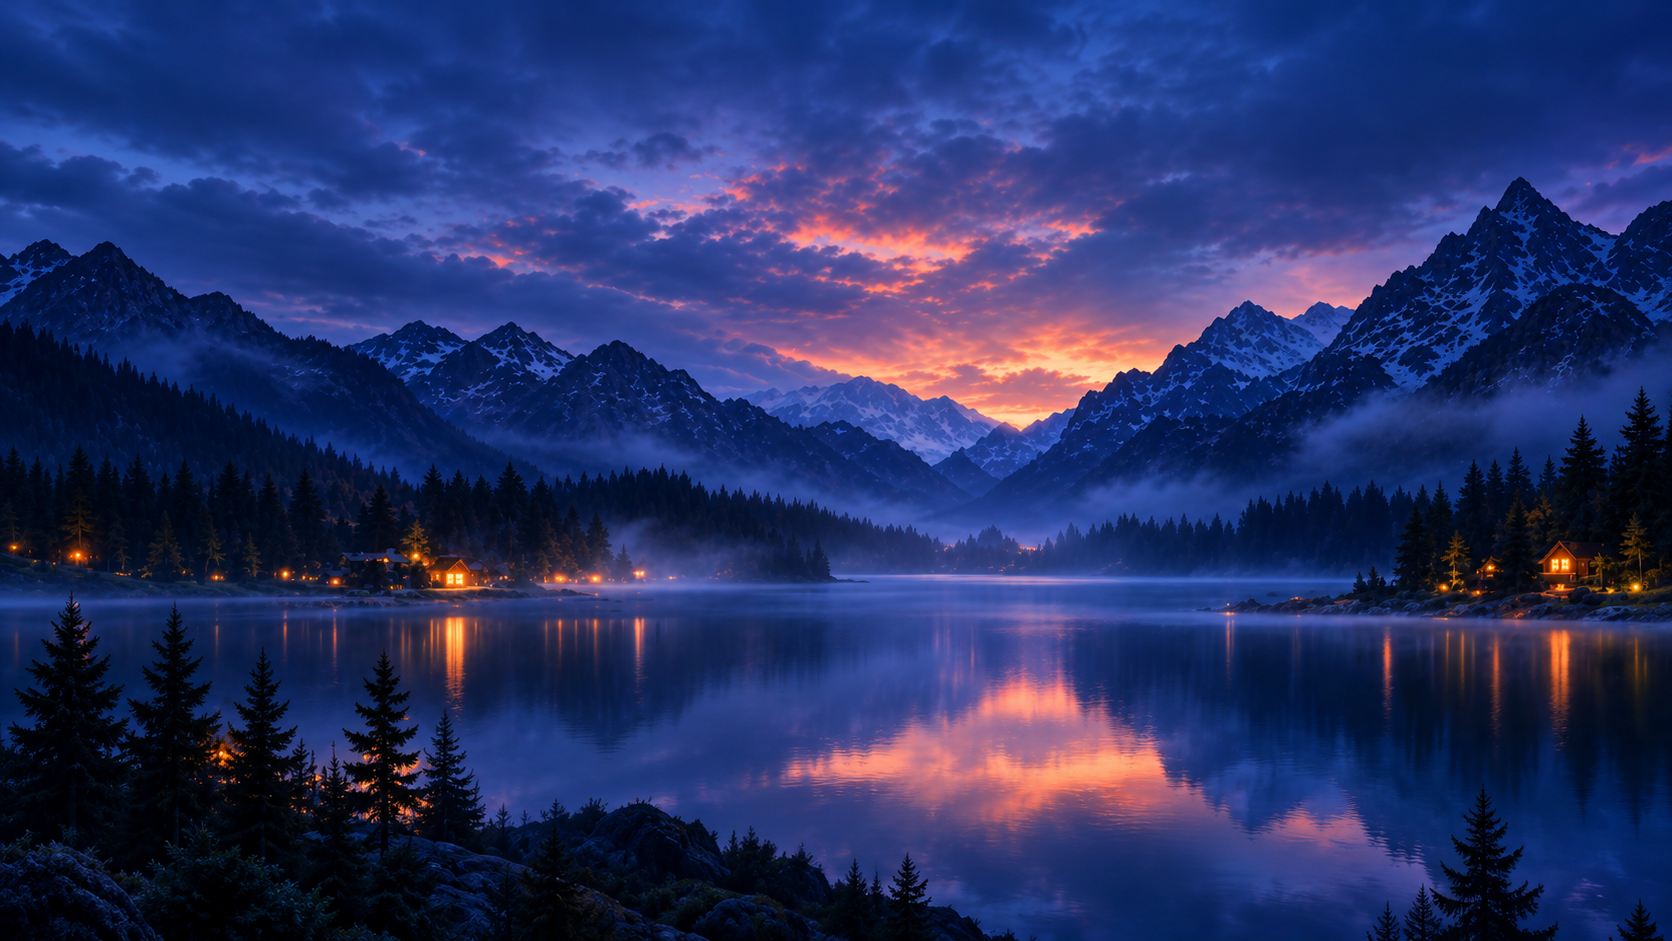
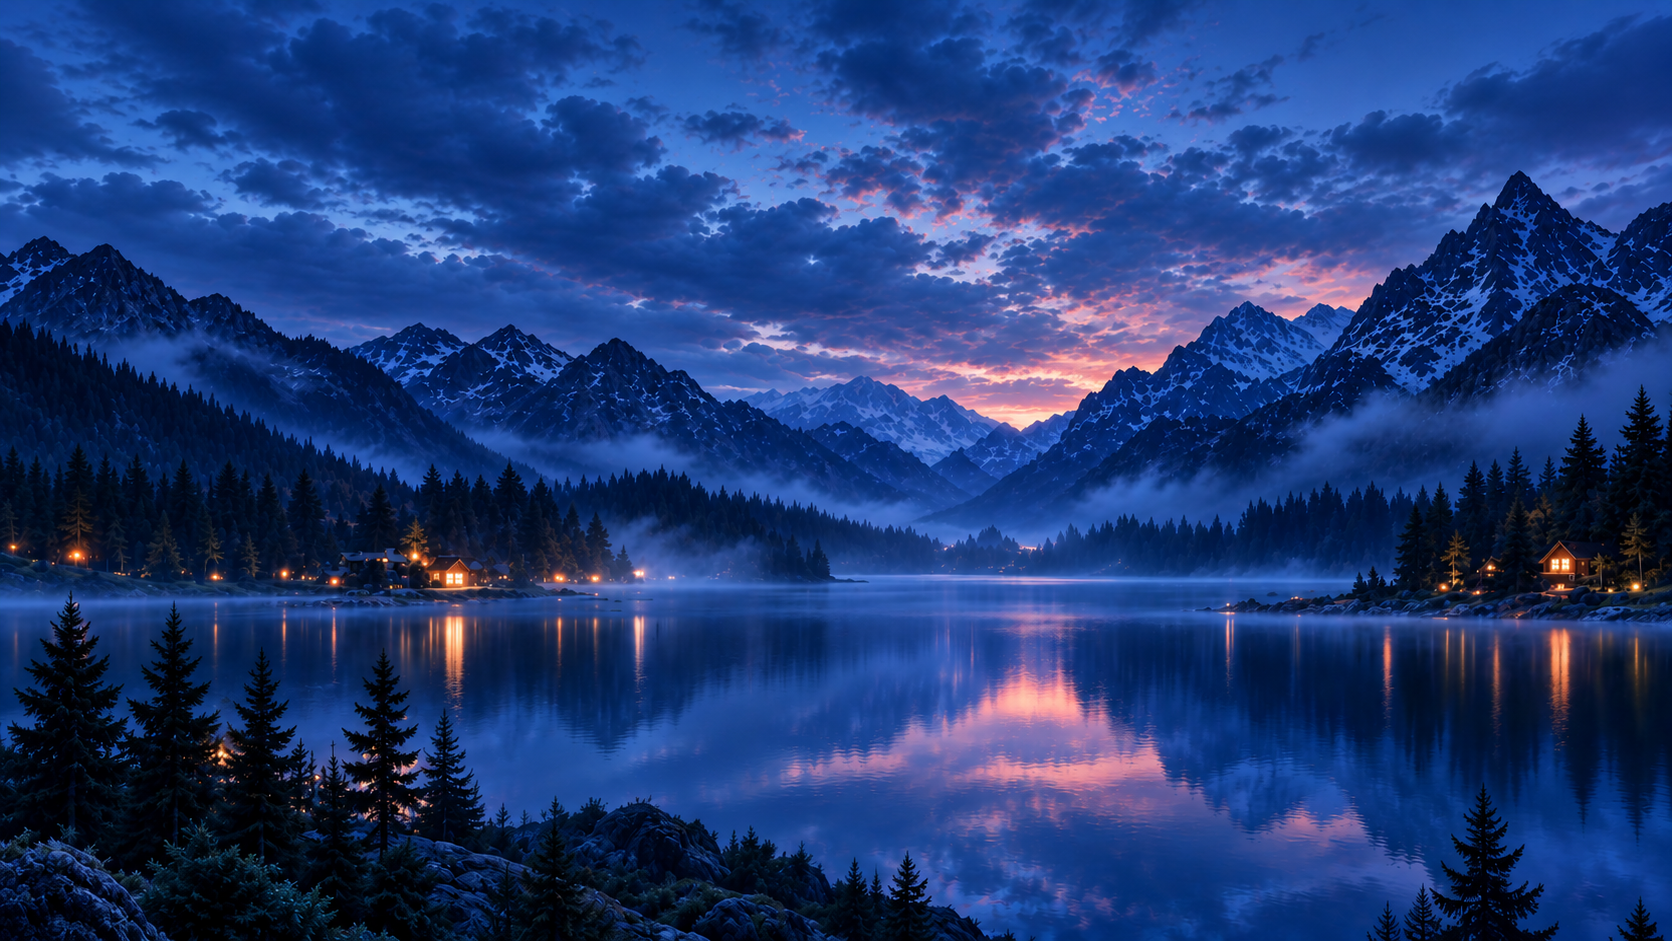
fix(theme): refine Twilight reference polish

diff --git a/apps/desktop/src/styles/twilight-mountains.css b/apps/desktop/src/styles/twilight-mountains.css
@@ -2,7 +2,7 @@
 :root[data-theme="dark"][data-scenic-theme="twilight-mountains"] {
   /* Twilight material tiers: large surfaces reveal the scene; dense/safety
      surfaces intentionally stay opaque enough to read independently. */
-  --twilight-atmosphere: rgba(4, 18, 48, 0.28);
+  --twilight-atmosphere: rgba(4, 18, 48, 0.16);
   --twilight-shell-glass: rgba(7, 31, 78, 0.5);
   --twilight-navigation-glass: rgba(8, 37, 91, 0.62);
   --twilight-raised-glass: rgba(29, 79, 156, 0.42);
@@ -54,7 +54,7 @@
   inset: -18px;
   pointer-events: none;
   background: url("../../resources/themes/twilight-mountains.png") 50% 42% / cover no-repeat;
-  filter: saturate(1.08) blur(3px);
+  filter: saturate(1.12) blur(2px);
   transform: scale(1.03);
 }
 
@@ -63,8 +63,8 @@
   position: absolute;
   inset: 0;
   background:
-    radial-gradient(ellipse at 53% 29%, rgba(255, 177, 190, 0.24), transparent 27%),
-    linear-gradient(180deg, rgba(3, 16, 54, 0.18), rgba(3, 15, 45, 0.42) 55%, rgba(2, 10, 33, 0.68));
+    radial-gradient(ellipse at 53% 29%, rgba(255, 177, 190, 0.28), transparent 29%),
+    linear-gradient(180deg, rgba(3, 16, 54, 0.1), rgba(3, 15, 45, 0.28) 55%, rgba(2, 10, 33, 0.45));
 }
 
 :root[data-scenic-theme="twilight-mountains"] .app-shell,
@@ -92,8 +92,10 @@
 
 :root[data-scenic-theme="twilight-mountains"] :is(.composer-shell, .composer-shell:focus-within, .composer-shell.is-file-drop-active) {
   border: 1px solid var(--twilight-luminous-border);
-  background: linear-gradient(145deg, rgba(58, 119, 212, 0.84), rgba(8, 38, 101, 0.82));
-  box-shadow: inset 0 1px rgba(239, 248, 255, 0.25), var(--ds-shadow-composer);
+  background:
+    radial-gradient(ellipse at 74% -18%, rgba(232, 202, 255, 0.2), transparent 48%),
+    linear-gradient(145deg, rgba(58, 119, 212, 0.46), rgba(8, 38, 101, 0.38));
+  box-shadow: inset 0 1px rgba(239, 248, 255, 0.34), 0 14px 34px rgba(0, 9, 35, 0.2);
   backdrop-filter: blur(18px) saturate(1.12);
   -webkit-backdrop-filter: blur(18px) saturate(1.12);
 }
@@ -105,6 +107,17 @@
 :root[data-scenic-theme="twilight-mountains"] :is(.thread-item.active, .thread-item:hover, .sidebar-session-group.active > .sidebar-session-group-header) {
   background: linear-gradient(90deg, rgba(134, 184, 255, 0.3), rgba(100, 151, 239, 0.16));
   box-shadow: inset 0 1px rgba(220, 237, 255, 0.13);
+}
+
+/* An active project is context, while its active session is the selected item.
+   Keep them visually distinct and leave a real glass gap between their pills. */
+:root[data-scenic-theme="twilight-mountains"] .project-group.active > .sidebar-session-group-header {
+  background: rgba(125, 174, 246, 0.18);
+  box-shadow: inset 0 1px rgba(220, 237, 255, 0.1);
+}
+
+:root[data-scenic-theme="twilight-mountains"] .project-group.active > .sidebar-session-group-header + .sidebar-session-group-body.project {
+  padding-top: 4px;
 }
 
 :root[data-scenic-theme="twilight-mountains"] .settings-shell-full .settings-nav {
@@ -144,6 +157,12 @@
   background-clip: text;
   color: transparent;
   text-shadow: 0 2px 18px rgba(169, 202, 255, 0.32);
+}
+
+/* The fixed conversation band owns a small protected clearance above the first
+   transcript row, so live activity cannot paint into title-bar controls. */
+:root[data-scenic-theme="twilight-mountains"] .thread-content {
+  padding-top: calc(var(--ds-toolbar-height) + 8px);
 }
 
 @media (prefers-reduced-transparency: reduce) {

diff --git a/docs/spec/06-delivery/04-e2e-test-plan.md b/docs/spec/06-delivery/04-e2e-test-plan.md
@@ -1637,8 +1637,9 @@ Each scenario is documented in this format:
   plugin theme available; reduced-transparency preference can be simulated.
 - **Steps**: 1) Select Twilight Mountains in Settings → General → Appearance.
   2) Inspect Chat's empty home at the supplied reference dimensions and a
-  normal Windows desktop window; confirm the blue mountains and pink horizon
-  remain visible behind the brighter navigation glass and atmospheric canvas.
+  normal Windows desktop window; confirm the lighter blue mountain lake and
+  pink horizon remain visible behind the brighter navigation glass and
+  atmospheric canvas.
   3) Confirm the normal mascot is replaced only here by the localized build
   greeting, then create/open a session and inspect the composer, file-drop
   focus state, transcript, and tool output. 4) Visit Settings, Plugins, the
@@ -1652,14 +1653,18 @@ Each scenario is documented in this format:
   surfaces. The scenic layer preserves the standard shell geometry: fixed and
   absolute controls, the work-panel toggle, and opening or closing the work
   panel stay aligned and behave as they do in Dark. Sidebar/title bands and
-  composer read as related luminous blue glass, while menus, dialogs,
+  composer reads as translucent reflective blue glass rather than opaque
+  cobalt, while menus, dialogs,
   permission UI, code, tool output, and settings controls retain readable
   opaque-enough contrast. Window edges use a navy fallback. Reduced
   transparency removes blur and increases opacity without removing the scenic
   palette. System, Light, Dark, and plugin themes restore their normal mascot,
   dynamic empty-home greeting, layout, and styling. Selecting another theme
   removes the scenic backdrop/state, and no plugin CSS permission or remote
-  asset request is needed.
+  asset request is needed. An active project context and its selected child
+  session remain distinct adjacent sidebar surfaces with a visible gap, and
+  live transcript or subagent activity does not paint beneath the fixed title
+  bar.
 - **Specs linked**: `04-ux/06-settings-ia.md`, `04-ux/07-ui-design-system.md`, `04-ux/08-component-spec.md`, ADR 0226, ADR 0227
 - **Acceptance**: Quality
 

diff --git a/docs/spec/04-ux/07-ui-design-system.md b/docs/spec/04-ux/07-ui-design-system.md
@@ -691,6 +691,11 @@ High-frequency workstation feedback must remain compositor-friendly and bounded:
   streaming. Twilight Mountains is the narrow first-party exception: its one
   compositor-bounded composer shell may use blur as part of the scenic glass
   material, while transcript rows, list rows, code, and tool output never do.
+- Twilight Mountains keeps the scenic image luminous rather than uniformly
+  darkened: its backdrop uses a light top vignette, a moderate lower vignette,
+  and translucent shell glass. Its active project context and selected child
+  session are separate adjacent surfaces with a visible gap; they must never
+  read as one merged pill.
 - Inline chat error notices wrap long provider detail and keep their actions
   reachable without introducing horizontal page overflow.
 - Stream-driven updates never restart route or shell animations. Every enter

diff --git a/docs/spec/04-ux/08-component-spec.md b/docs/spec/04-ux/08-component-spec.md
@@ -2158,6 +2158,9 @@ reasoning-level control.
   `.composer-toolbar` spacing, minimum heights, theme surfaces, and controls.
   Only the parent placement and the localized placeholder copy differ between
   the empty home and a recorded conversation.
+- In Twilight Mountains, a fixed conversation title bar reserves its own
+  height plus an 8px visual clearance before the first transcript item. Live
+  activity and subagent status must not paint beneath title-bar controls.
 - Empty draft height: `.composer-input` uses `min-height: 3lh`, so an idle
   composer shows three lines of input before it grows with the draft.
 - Scroll stability: The thread scrollport reserves one stable trailing gutter,
